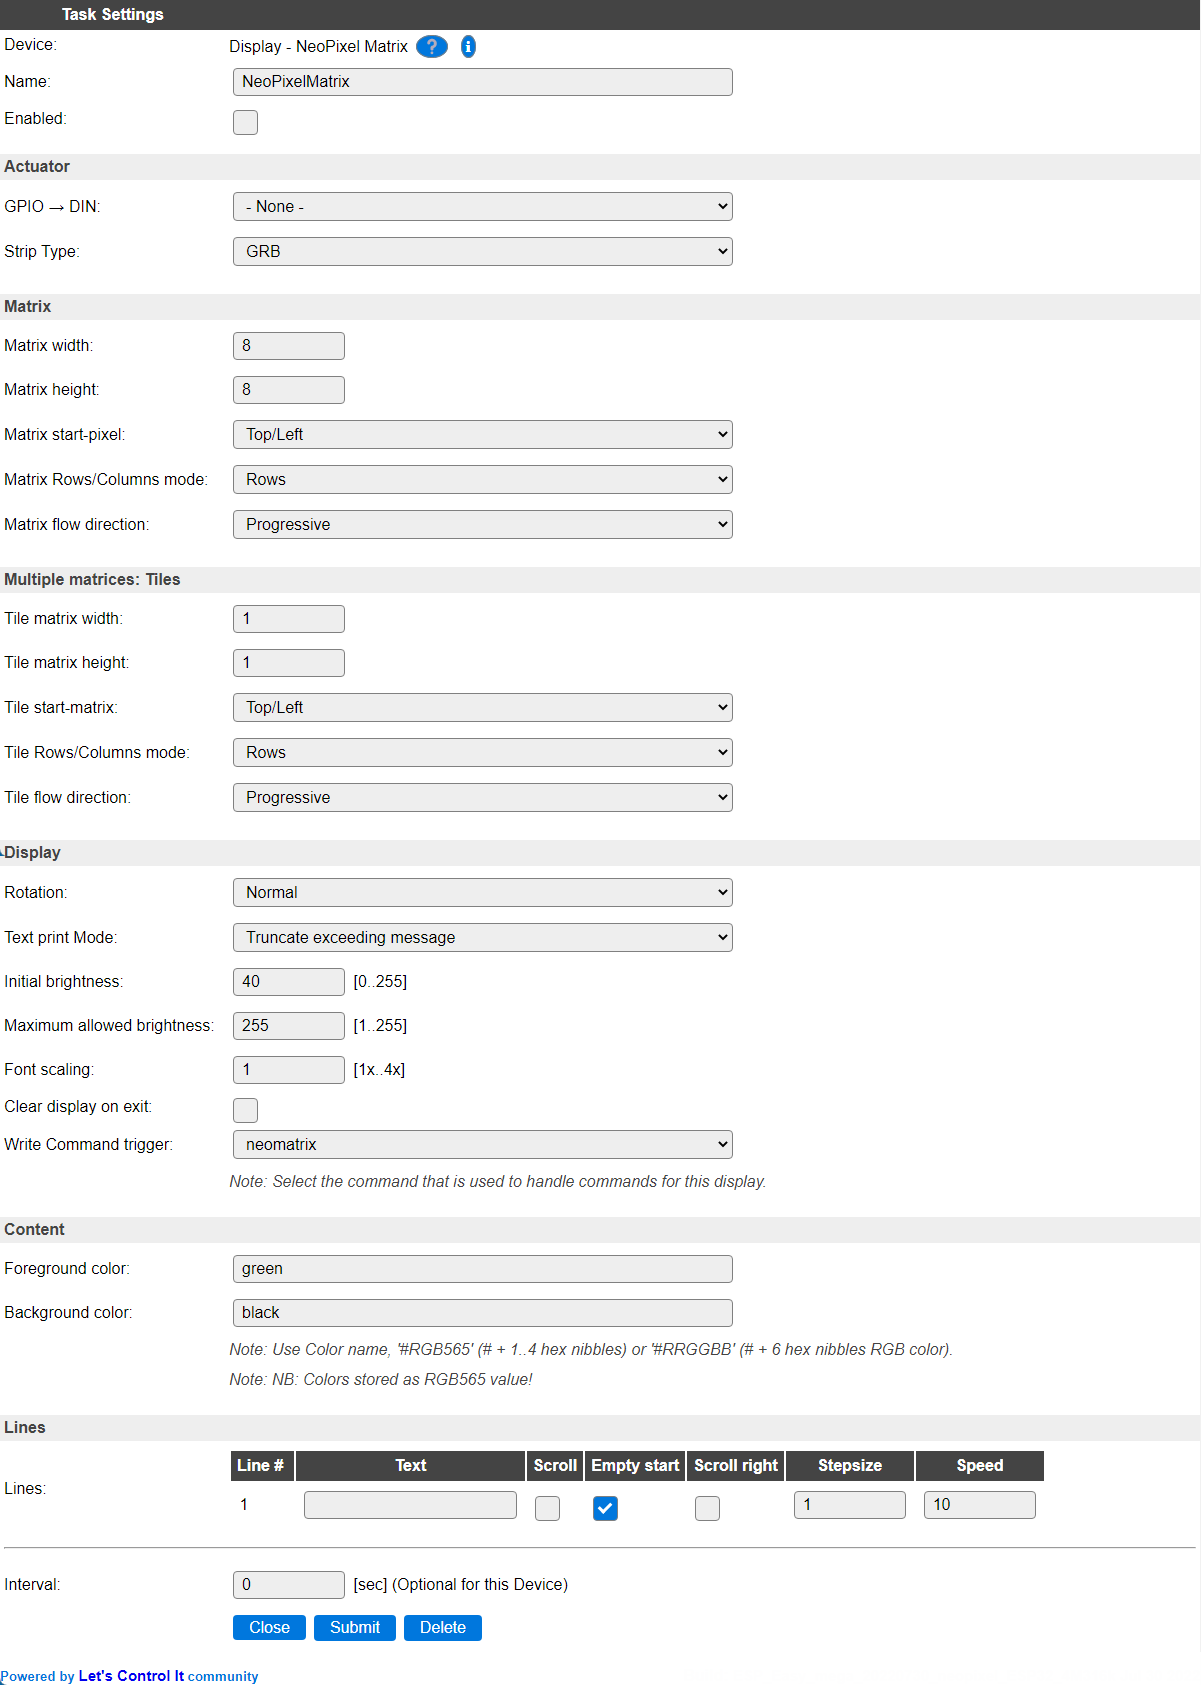
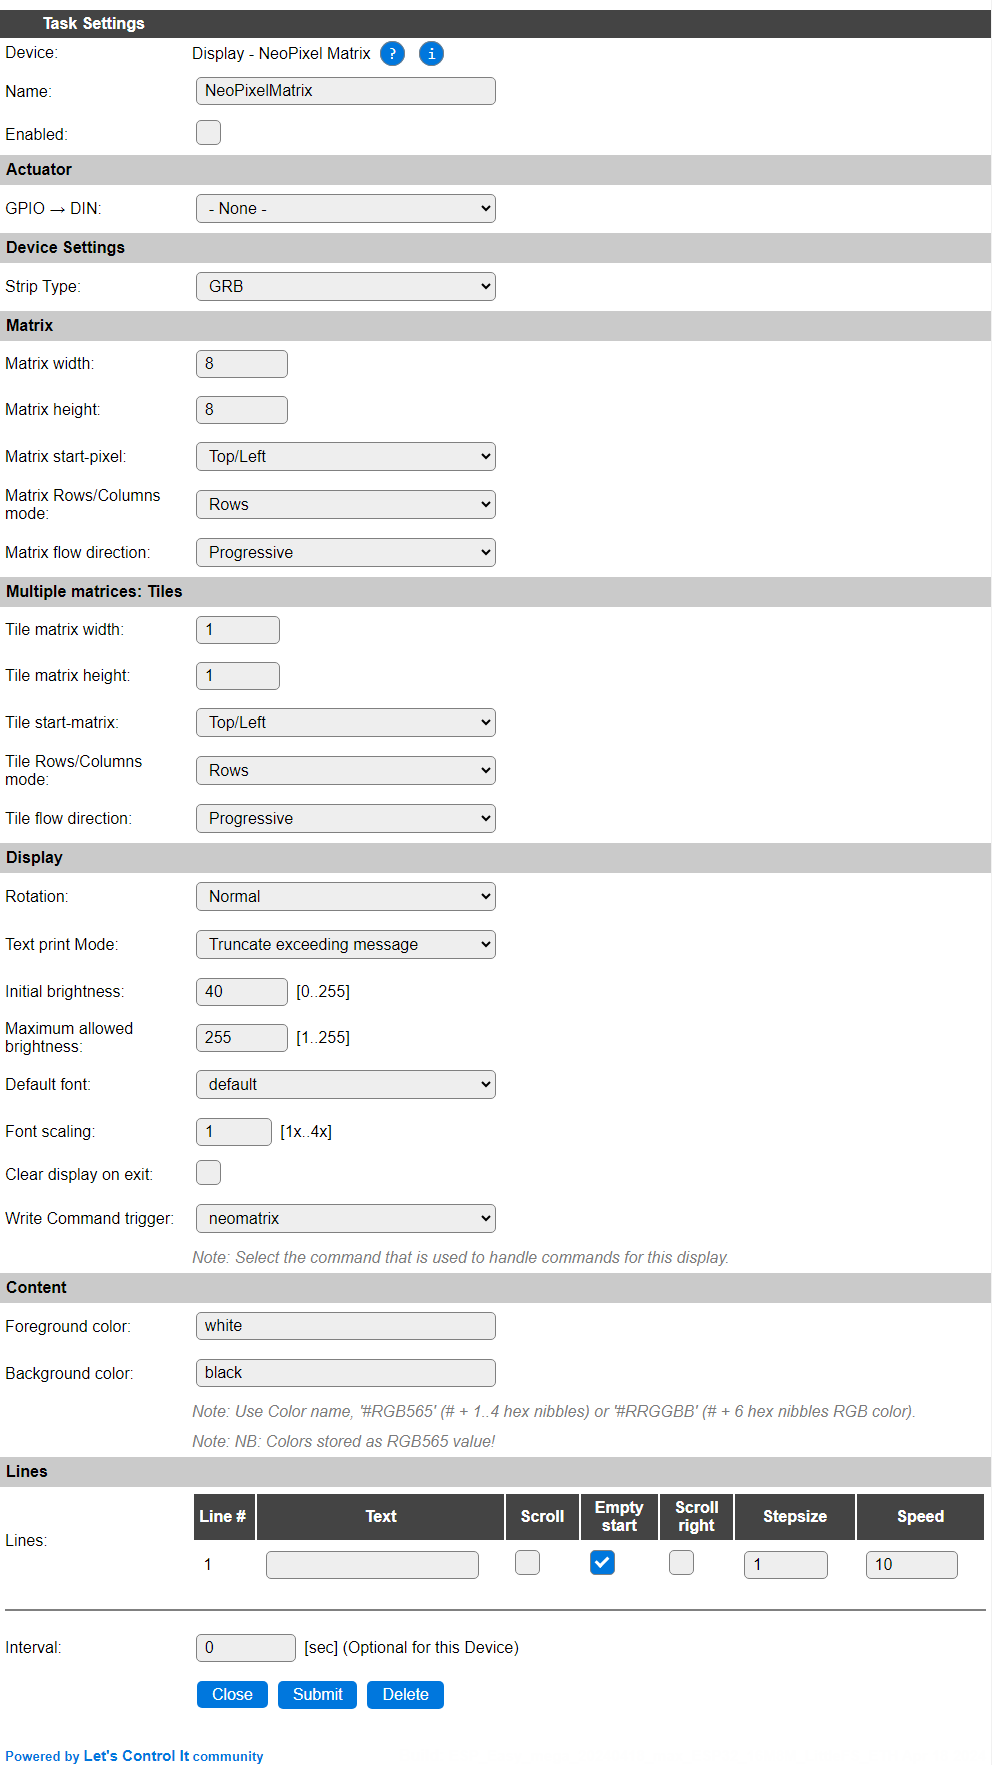
[P131] Update documentation

Changed region(s): [[0.0, 0.0, 1.0, 1.0], [0.0, 0.9258, 0.0625, 0.9567]]

diff --git a/docs/source/Plugin/P131.rst b/docs/source/Plugin/P131.rst
@@ -193,6 +193,14 @@ Default setting is *Continue to next line*.
 
 * **Maximum allowed brightness**: The brightness that is the maximum it can be set to, either from UI or via the ``brightness`` command, to optionally help protect both the eyes and the power-supply powering the display. Default is 255. Range: 1..255.
 
+* **Default font**: Select from the currently available fonts, the font that will be active when the plugin is started.
+
+Available fonts are depending on the build used, some builds don't show this option, as then only the ``default`` font is included:
+
+.. image:: P131_DefaultFontOptions.png
+
+The complete list of possible fonts is available at the ``font`` subcommand, below. (This screenshot is taken from a MAX build)
+
 * **Font scaling** The scaling factor for the currently active font. Select a factor between 1 and 4.
 
 * **Clear display on exit** When checked, will clear the display when the task is disabled, either from settings or via the ``TaskDisable`` command. This will fill the display with black pixels, turning all NeoPixels off.
